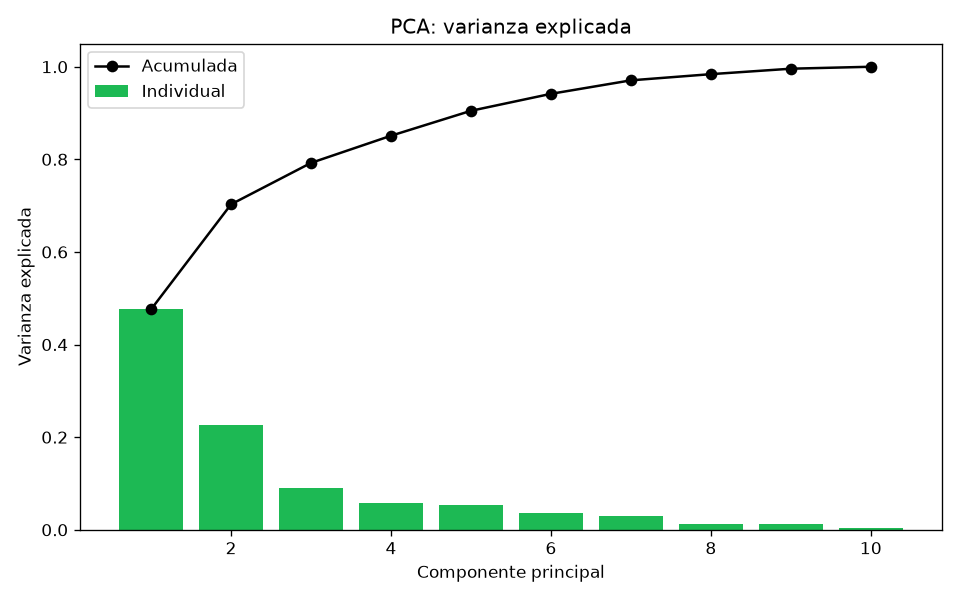
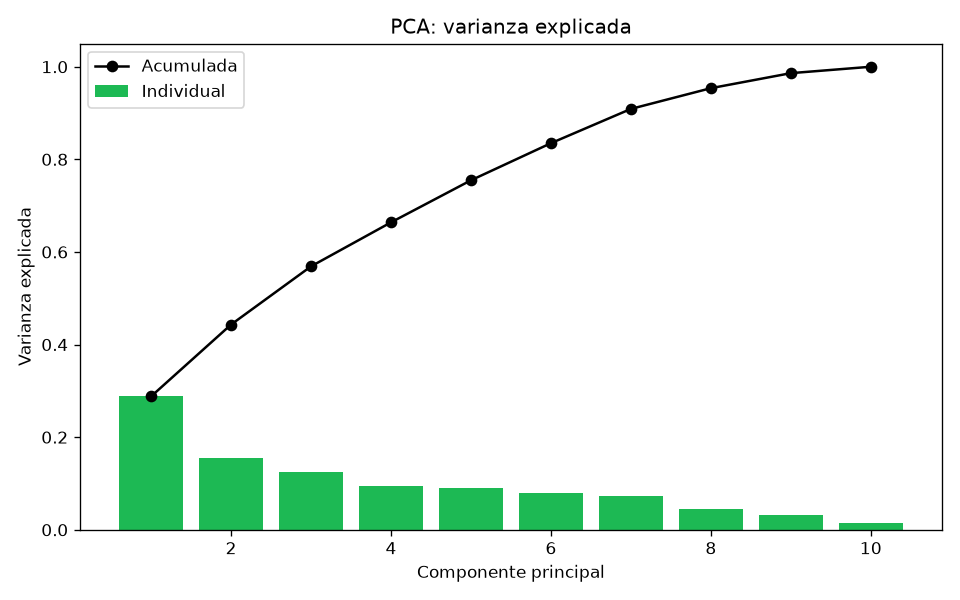
#11 Cambiar a StandardScaler para equilibrar las variables

diff --git a/src/preparacion.py b/src/preparacion.py
@@ -3,7 +3,7 @@ from pathlib import Path
 
 import numpy as np
 import pandas as pd
-from sklearn.preprocessing import RobustScaler
+from sklearn.preprocessing import StandardScaler
 
 UNIQUE_PATH = Path("data/processed/tracks_unique.csv")
 
@@ -18,11 +18,11 @@ def load_unique(path: Path = UNIQUE_PATH) -> pd.DataFrame:
     return pd.read_csv(path)
 
 
-def prepare_features(df: pd.DataFrame) -> tuple[np.ndarray, RobustScaler]:
+def prepare_features(df: pd.DataFrame) -> tuple[np.ndarray, StandardScaler]:
     """Devuelve la matriz transformada y escalada, y el scaler ajustado."""
     X = df[FEATURES].copy()
     X[LOG_FEATURES] = np.log1p(X[LOG_FEATURES])
-    scaler = RobustScaler()
+    scaler = StandardScaler()
     return scaler.fit_transform(X), scaler
 
 
